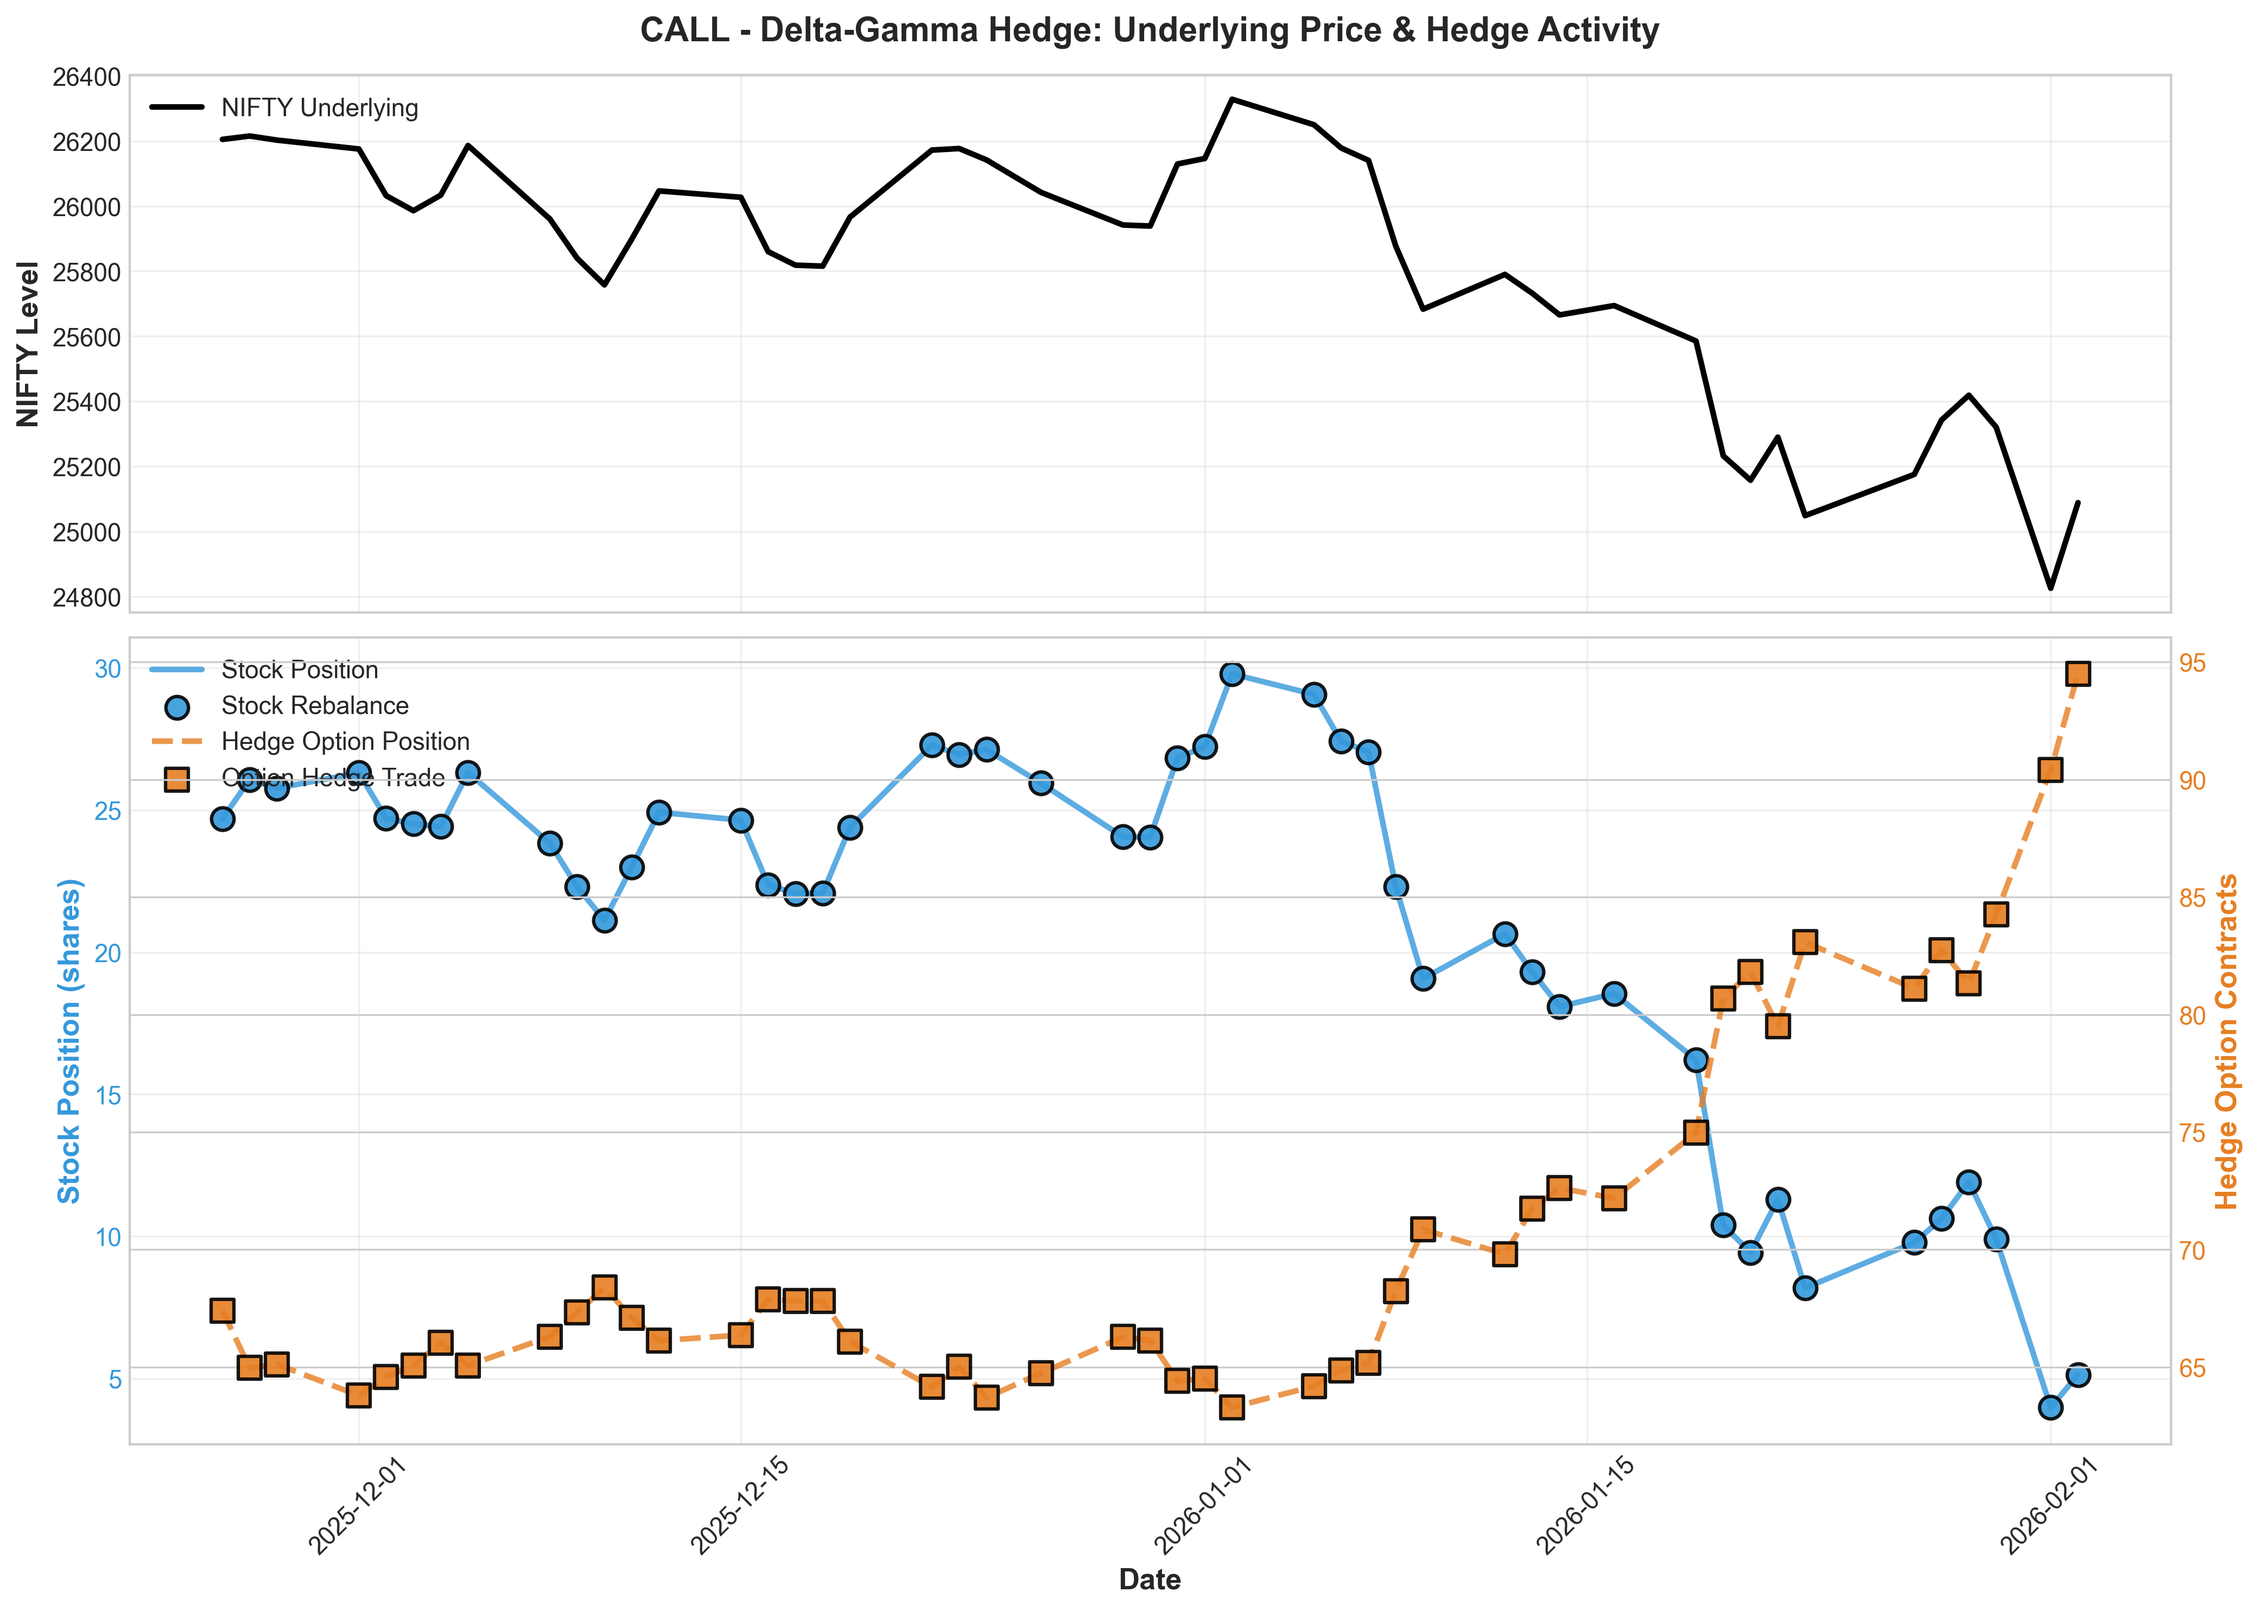
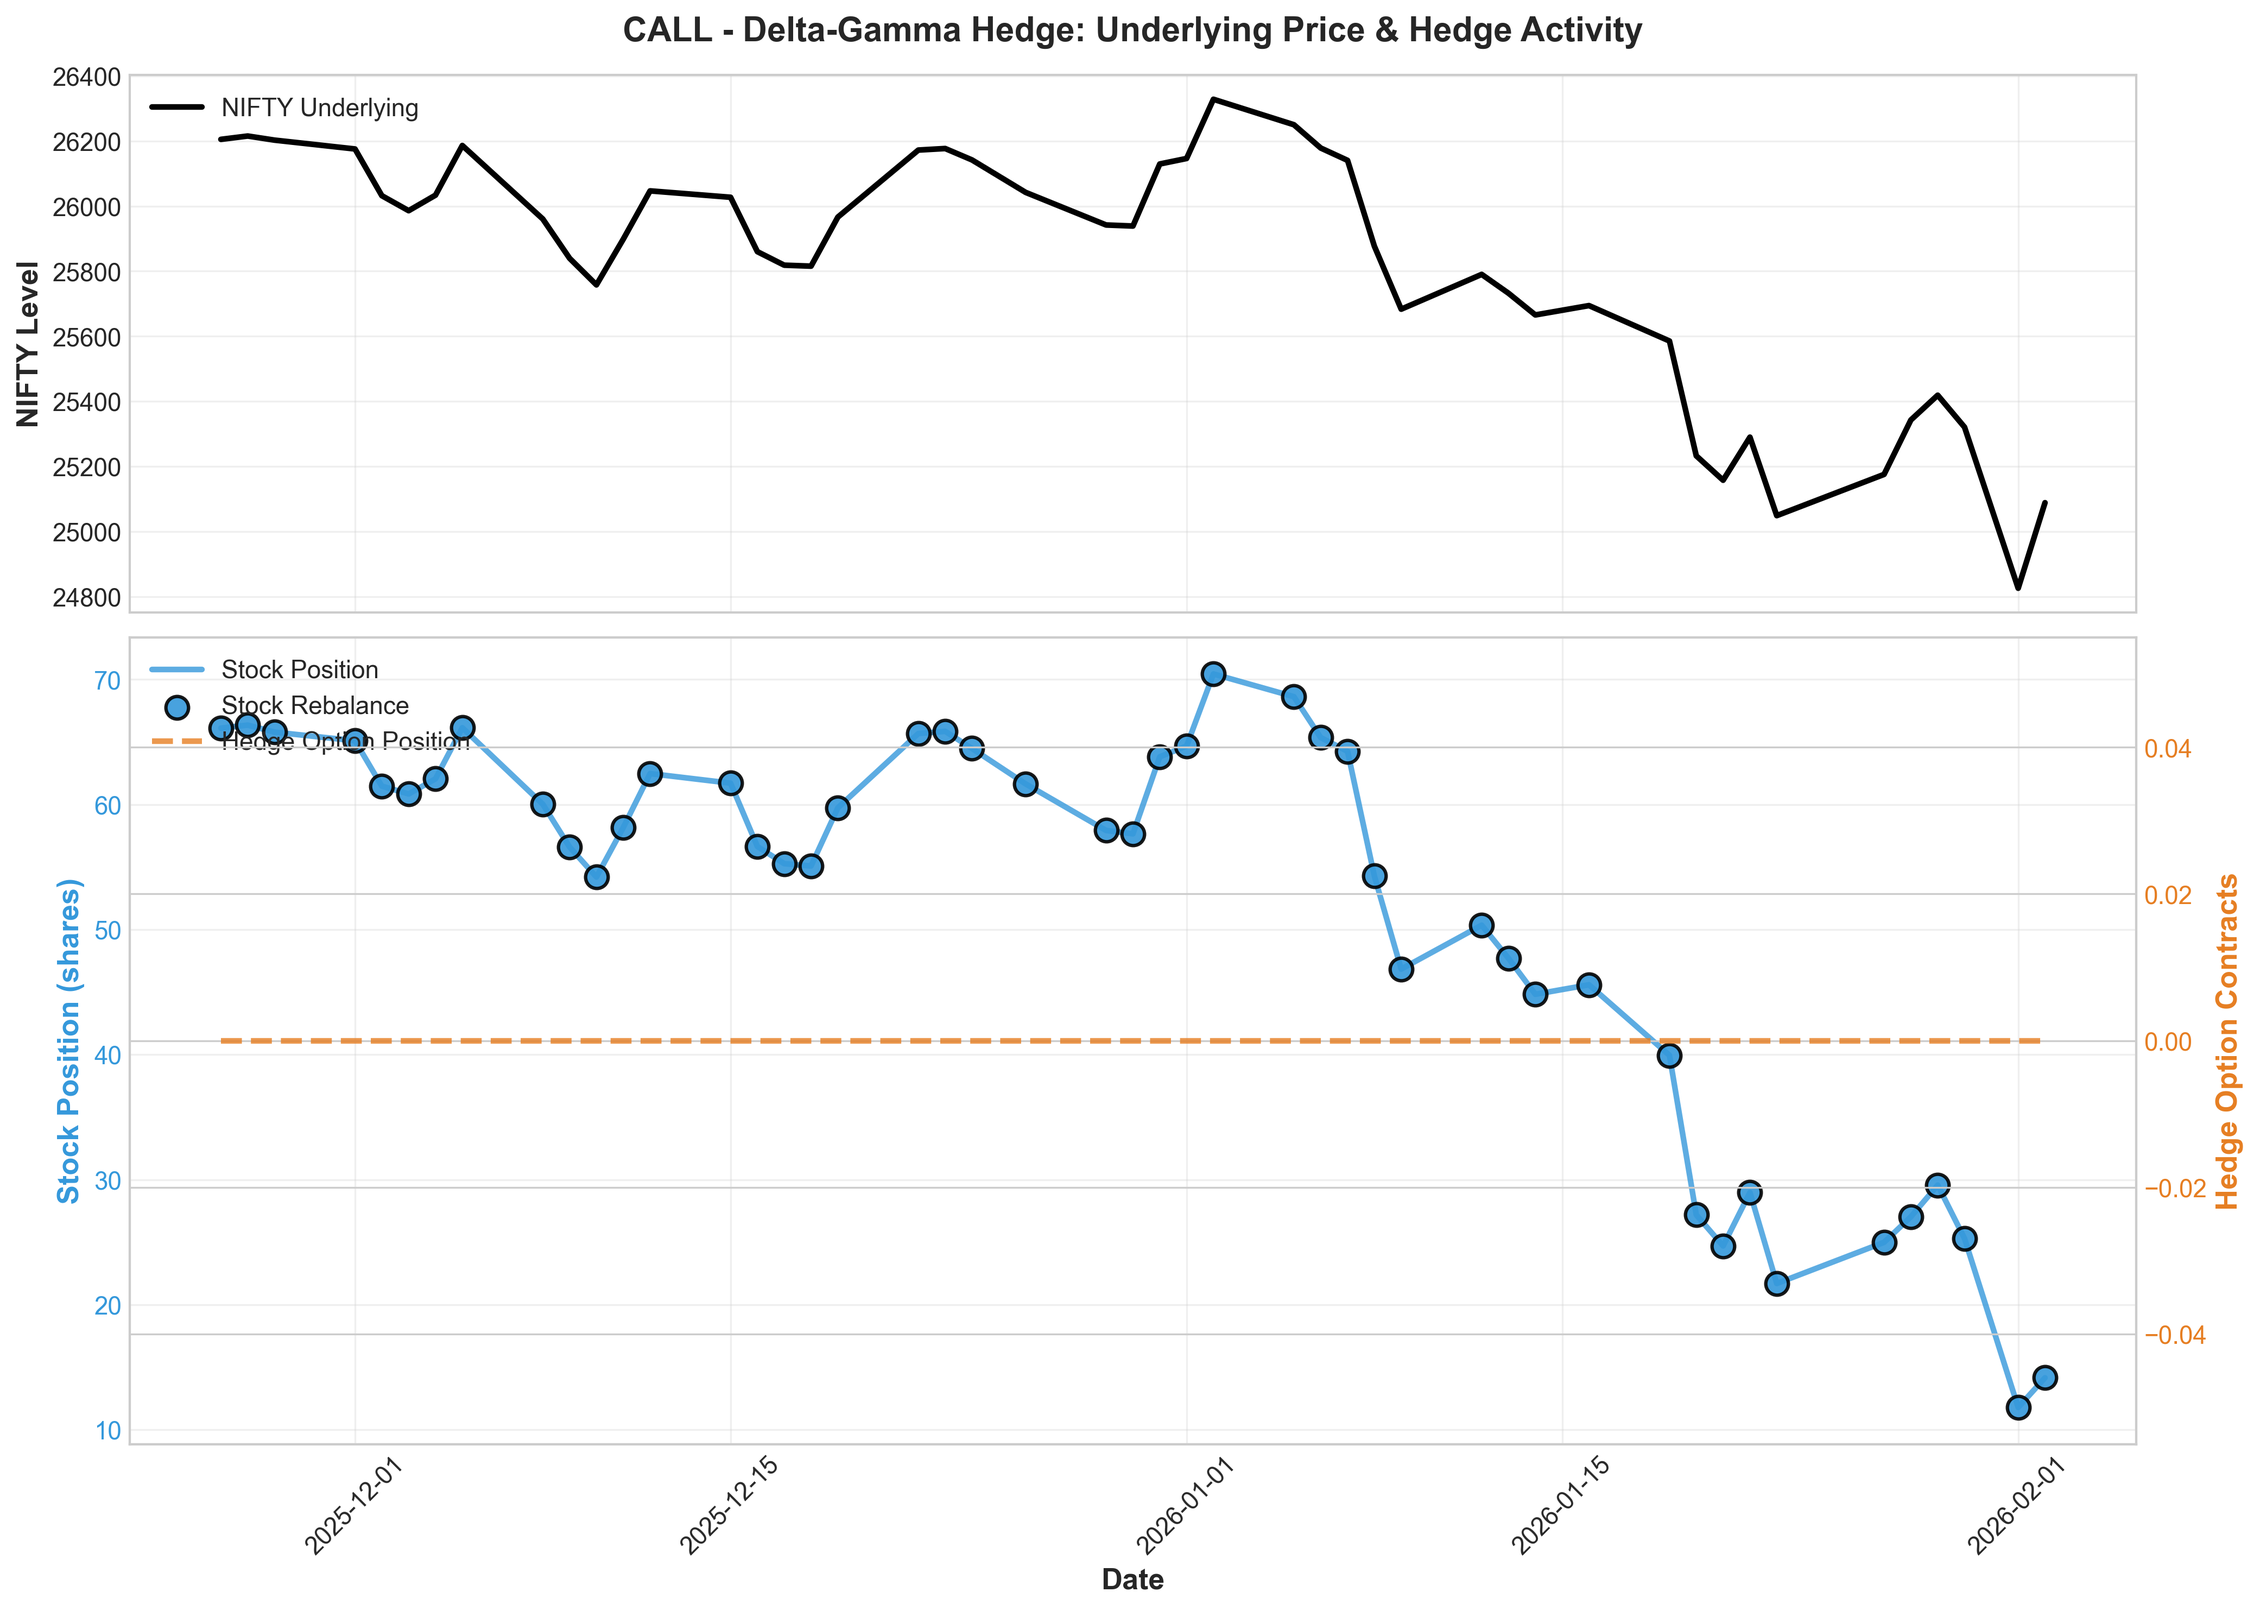
educational is best with all good for everything

diff --git a/riskfree.py b/riskfree.py
@@ -46,14 +46,20 @@ class BlackScholes:
         )
 
     def delta(self):
-        return self.bs.callDelta if self.type == 'call' else self.bs.putDelta
+        # mibian returns positive deltas for both calls and puts
+        # But puts should have negative delta by convention
+        raw_delta = self.bs.callDelta if self.type == 'call' else self.bs.putDelta
+
+        # FIX: Convert PUT delta to negative if mibian returns positive
+        if self.type == 'put' and raw_delta > 0:
+            return -raw_delta
+        return raw_delta
 
     def gamma(self):
         return self.bs.gamma
 
     def vega(self):
         return self.bs.vega
-
 
 def calculate_implied_vol(price, S, K, T, r, option_type, fallback_iv=0.20):
     """Calculate IV from option price"""
@@ -166,17 +172,22 @@ def load_and_prepare_data(main_file, hedge_file, option_type, r=0.065):
 # SIMULATION FUNCTIONS WITH TRADE TRACKING
 # =============================================================================
 
-def simulate_unhedged(df, N=100):
+def simulate_unhedged(df, N=100, r=0.065):  # ADD r parameter
     """Strategy 1: Short N options, no hedge"""
     print("\n--- Running UNHEDGED simulation ---")
 
     results = []
     entry_price = df.iloc[0]['Settle Price']
-    premium_received = entry_price * N
+    cash = entry_price * N  # CHANGE: was premium_received
 
     for i, row in df.iterrows():
+        # ADD THESE 3 LINES - Apply risk-free rate to cash
+        if i > 0:
+            days = (row['Date'] - df.iloc[i - 1]['Date']).days
+            cash *= np.exp(r * days / 365)
+
         current_value = row['Settle Price'] * N
-        pnl = premium_received - current_value
+        pnl = cash - current_value  # CHANGE: was premium_received
 
         results.append({
             'Date': row['Date'],
@@ -192,7 +203,7 @@ def simulate_unhedged(df, N=100):
     return df_result
 
 
-def simulate_delta_hedge(df, N=100, rebalance_threshold=0.20):
+def simulate_delta_hedge(df, N=100, rebalance_threshold=0.20, r=0.065):  # ADD r parameter
     """Strategy 2: Short N options + Delta hedge with stock - TRACKS TRADES"""
     print("\n--- Running DELTA HEDGE simulation ---")
     print(f"Rebalancing threshold: {rebalance_threshold * 100:.1f}%")
@@ -204,6 +215,11 @@ def simulate_delta_hedge(df, N=100, rebalance_threshold=0.20):
     last_target_stock = 0
 
     for i, row in df.iterrows():
+        # ADD THESE 3 LINES - Apply risk-free rate to cash
+        if i > 0:
+            days = (row['Date'] - df.iloc[i - 1]['Date']).days
+            cash *= np.exp(r * days / 365)
+
         S = row['Underlying Value']
         main_opt_value = row['Settle Price'] * N
 
@@ -248,32 +264,50 @@ def simulate_delta_hedge(df, N=100, rebalance_threshold=0.20):
     return df_result
 
 
-def simulate_delta_gamma_hedge(df, N=100):
-    """
-    Delta-Gamma Hedge: DAILY rebalancing
-
-    This is the TRUE gamma hedge - rebalance every single day
-    to capture gamma (how delta changes over time)
-
-    Gamma measures convexity, so frequent rebalancing
-    captures the benefit of being long/short gamma
-    """
-    print("\n--- Running DELTA-GAMMA HEDGE (Daily Rebalancing) ---")
+def simulate_delta_gamma_hedge(df, N=100, gamma_hedge_ratio=0.70, r=0.065):  # ADD r parameter
+    """Strategy 3: Delta-Gamma Hedge - TRACKS TRADES"""
+    print("\n--- Running DELTA-GAMMA HEDGE simulation ---")
+    print(f"Gamma hedge ratio: {gamma_hedge_ratio * 100:.0f}%")
 
     results = []
     entry_price = df.iloc[0]['Settle Price']
     cash = entry_price * N
     stock_pos = 0
+    hedge_opt_pos = 0
 
     for i, row in df.iterrows():
+        # ADD THESE 3 LINES - Apply risk-free rate to cash
+        if i > 0:
+            days = (row['Date'] - df.iloc[i - 1]['Date']).days
+            cash *= np.exp(r * days / 365)
+
         S = row['Underlying Value']
         main_opt_value = row['Settle Price'] * N
+        hedge_opt_price = row['Hedge_Price']
 
-        # Calculate current delta exposure
+        # STEP 1: Gamma neutralization
+        short_gamma = -1 * row['Gamma'] * N
+        hedge_gamma_per_contract = row['Hedge_Gamma']
+
+        if hedge_gamma_per_contract > 1e-7:
+            target_hedge_opts = gamma_hedge_ratio * (-short_gamma / hedge_gamma_per_contract)
+            target_hedge_opts = np.clip(target_hedge_opts, 0, N * 2)
+        else:
+            target_hedge_opts = 0
+
+        # Execute hedge option trade
+        hedge_trade = target_hedge_opts - hedge_opt_pos
+        hedge_trade_cost = hedge_trade * hedge_opt_price
+        cash -= hedge_trade_cost
+        hedge_opt_pos = target_hedge_opts
+
+        # STEP 2: Delta neutralization
         short_delta = -1 * row['Delta'] * N
-        target_stock = -short_delta
+        hedge_delta = hedge_opt_pos * row['Hedge_Delta']
+        current_net_delta = short_delta + hedge_delta
+        target_stock = -current_net_delta
 
-        # REBALANCE EVERY DAY (key difference from delta hedge)
+        # Execute stock trade
         stock_trade = target_stock - stock_pos
         stock_trade_cost = stock_trade * S
         cash -= stock_trade_cost
@@ -281,23 +315,24 @@ def simulate_delta_gamma_hedge(df, N=100):
 
         # Mark to market
         stock_value = stock_pos * S
-        total_pnl = cash + stock_value - main_opt_value
+        hedge_opt_value = hedge_opt_pos * hedge_opt_price
+        total_pnl = cash + stock_value + hedge_opt_value - main_opt_value
 
         results.append({
             'Date': row['Date'],
             'PnL': total_pnl,
             'Stock_Pos': stock_pos,
-            'Hedge_Opt_Pos': 0,
+            'Hedge_Opt_Pos': hedge_opt_pos,
             'Stock_Trade': abs(stock_trade),
-            'Hedge_Trade': 0
+            'Hedge_Trade': abs(hedge_trade)
         })
 
     df_result = pd.DataFrame(results)
     print(f"Final P&L: ₹{df_result['PnL'].iloc[-1]:,.2f}")
-    print(f"Rebalanced EVERY day ({len(df_result)} times)")
-
     return df_result
-def simulate_vega_hedge(df, N=100):
+
+
+def simulate_vega_hedge(df, N=100, r=0.065):  # ADD r parameter
     """Strategy 4: Delta + Vega Hedge - TRACKS TRADES"""
     print("\n--- Running DELTA-VEGA HEDGE simulation ---")
 
@@ -308,6 +343,11 @@ def simulate_vega_hedge(df, N=100):
     hedge_opt_pos = 0
 
     for i, row in df.iterrows():
+        # ADD THESE 3 LINES - Apply risk-free rate to cash
+        if i > 0:
+            days = (row['Date'] - df.iloc[i - 1]['Date']).days
+            cash *= np.exp(r * days / 365)
+
         S = row['Underlying Value']
         main_opt_value = row['Settle Price'] * N
         hedge_opt_price = row['Hedge_Price']
@@ -648,7 +688,7 @@ def main():
         call_strategies = {
             'Unhedged': simulate_unhedged(df_call, N_CONTRACTS),
             'Delta': simulate_delta_hedge(df_call, N_CONTRACTS, rebalance_threshold=0.20),
-            'Delta-Gamma': simulate_delta_gamma_hedge(df_call, N_CONTRACTS),
+            'Delta-Gamma': simulate_delta_gamma_hedge(df_call, N_CONTRACTS, gamma_hedge_ratio=0.70),
             'Delta-Vega': simulate_vega_hedge(df_call, N_CONTRACTS)
         }
 
@@ -684,28 +724,25 @@ def main():
 
         df_put = load_and_prepare_data(PUT_MAIN_FILE, PUT_HEDGE_FILE, 'put')
 
+        # DIAGNOSTIC: Check PUT delta values
+        print("\n" + "=" * 70)
+        print("DIAGNOSTIC: PUT DELTA VALUES")
+        print("=" * 70)
+        print(f"First 5 PUT Deltas: {df_put['Delta'].head().tolist()}")
+        print(f"PUT Delta range: [{df_put['Delta'].min():.4f}, {df_put['Delta'].max():.4f}]")
+        print(f"First PUT price: ₹{df_put['Settle Price'].iloc[0]:.2f}")
+        print(f"First underlying: ₹{df_put['Underlying Value'].iloc[0]:.2f}")
+        print(f"PUT Strike: {df_put['Strike Price'].iloc[0]}")
+        print("=" * 70)
+
         # Run strategies
         put_strategies = {
             'Unhedged': simulate_unhedged(df_put, N_CONTRACTS),
             'Delta': simulate_delta_hedge(df_put, N_CONTRACTS, rebalance_threshold=0.20),
-            'Delta-Gamma': simulate_delta_gamma_hedge(df_put, N_CONTRACTS),
+            'Delta-Gamma': simulate_delta_gamma_hedge(df_put, N_CONTRACTS, gamma_hedge_ratio=1.0),
             'Delta-Vega': simulate_vega_hedge(df_put, N_CONTRACTS)
         }
 
-        print("\n" + "=" * 70)
-        print("CREATING PUT VISUALIZATIONS")
-        print("=" * 70)
-
-
-        df_put = load_and_prepare_data(PUT_MAIN_FILE, PUT_HEDGE_FILE, 'put')
-
-        # Run strategies
-        put_strategies = {
-            'Unhedged': simulate_unhedged(df_put, N_CONTRACTS),
-            'Delta': simulate_delta_hedge(df_put, N_CONTRACTS, rebalance_threshold=0.2),
-            'Delta-Gamma': simulate_delta_gamma_hedge(df_put, N_CONTRACTS),
-            'Delta-Vega': simulate_vega_hedge(df_put, N_CONTRACTS)
-        }
 
         print("\n" + "=" * 70)
         print("CREATING PUT VISUALIZATIONS")
